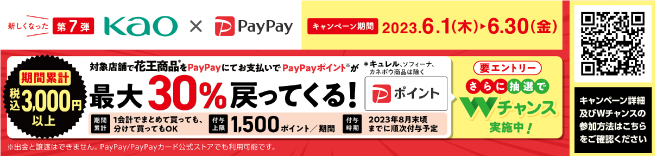
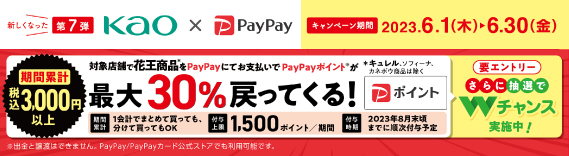
paypayバナー変更と下部の注釈追加

diff --git a/assets/css/style.css b/assets/css/style.css
@@ -1,2 +1,2 @@
 @import url(https://fonts.googleapis.com/css2?family=Noto+Sans+JP:wght@400;700;900&display=swap);
[2 lines of base64/hex data omitted]

diff --git a/assets/css/src/common/_generated-icon-vars.scss b/assets/css/src/common/_generated-icon-vars.scss
@@ -46,7 +46,7 @@ $icons: (
 		font-family: "icon";
 		font-style: normal;
 		font-weight: normal;
[2 lines of base64/hex data omitted]
 	}
 
 	.Icon {

diff --git a/index.html b/index.html
@@ -21,11 +21,9 @@
 </section>
 
 <section class="Paypay">
-	<h2>
-		<img
-			src="./img/app/230518/paypay.jpg"
-			alt="">
-	</h2>
+	<img
+		src="./img/app/230518/paypay.jpg"
+		alt="">
 </section>
 
 <div class="BgColor">
@@ -2432,11 +2430,7 @@
 			店舗により一部お取り扱いのない商品がございます。
 		</p>
 
-		<span>
-			※上記商品以外はSALEの対象外となります。
-		</span>
-
-		<div>
+		<div class="Caution__Contents__MemorialSummer">
 			<img 
 			 src="./img/app/230518/icon/memorialsummer.png" 
 			 alt=""
@@ -2444,6 +2438,26 @@
 			<span>
 				このマークのついた<br class="Sp__S__Only">商品の価格は<br>レジにてお値引き後の<br class="Sp__S__Only">価格です。
 			</span>
+		</div>
+
+		<div class="Caution__Contents__Point">
+			<img 
+			 src="./img/app/230518/point.png" 
+			 alt=""
+			 >
+			 <p>
+				この表記がある商品のポイントの
+				有効期限は<strong>8月31日（木）</strong>までとなります。<br>
+				期限までにご来店・ご利用下さい。
+			 </p>
+		</div>
+
+		<div class="Caution__Contents__Medical">
+			<p>
+				医薬品は「使用上の注意」をよく読んで用法、用量を守り正しくご使用下さい。<br>
+				医薬品医療機器等法により一部医薬品の販売数を制限させて頂く場合がございます。
+				店頭の薬剤師又は登録販売者にご相談下さい。
+			</p>
 		</div>
 
 		<ul>

diff --git a/assets/css/src/pages/home.scss b/assets/css/src/pages/home.scss
@@ -457,7 +457,6 @@ button{
 
 .Paypay {
     padding: 30px 10px 0;
-    margin-bottom: 20px;
     max-width: 620px;
     background: $bg-color;
     border-radius: 0;
@@ -731,10 +730,13 @@ button{
         }
 
         div {
+            margin-top: 30px;
+        }
+
+        &__MemorialSummer {
             display: flex;
             justify-content: center;
             gap: 10px;
-            margin-top: 10px;
 
             img {
                 width: 50px;
@@ -752,13 +754,37 @@ button{
                     left: 0;
                 }
             }
-    
+        }
+
+        &__Point {
+
+            img {
+                width: 200px;
+            }
+
+            p {
+                font-size: 16px;
+                color: #000;
+
+                strong {
+                    display: inline;
+                    color: $text-color-red;
+                    font-size: 20px;
+                }
+            }
+        }
+
+        &__Medical {
+            p {
+                font-size: 16px;
+                color: #000;
+            }
         }
 
         ul {
             text-align: left;
             padding-left: 0px;
-            margin-top: 20px;
+            margin-top: 40px;
 
             li {
                 font-size: 14px;
